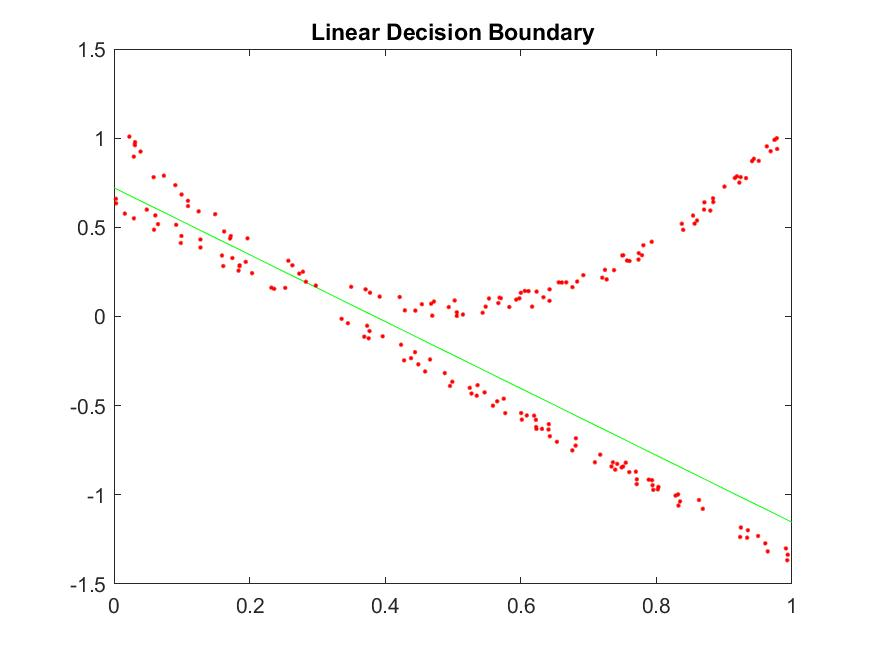
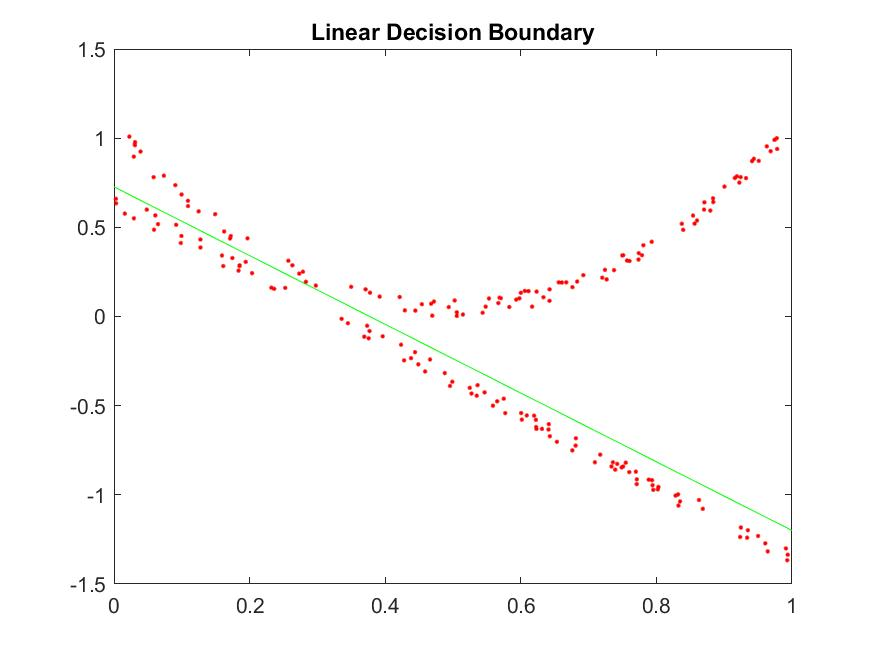
Updated plots

diff --git a/HW1/MATLAB/Q4/problem4_solution.m b/HW1/MATLAB/Q4/problem4_solution.m
@@ -12,7 +12,7 @@ X = dataset.X;
 y = dataset.Y;
 
 % Initializing parameters for Gradient Descent
-stepSize = 2;
+stepSize = 5;
 tolerance = 0.001;
 theta = rand(size(X,2), 1);
 nIter = 100000;
